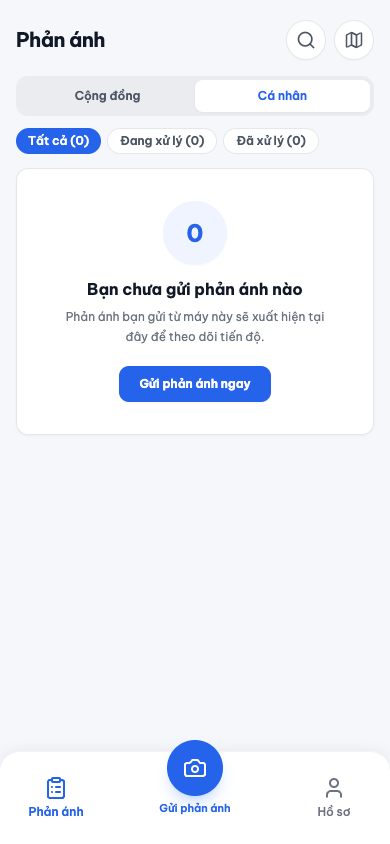
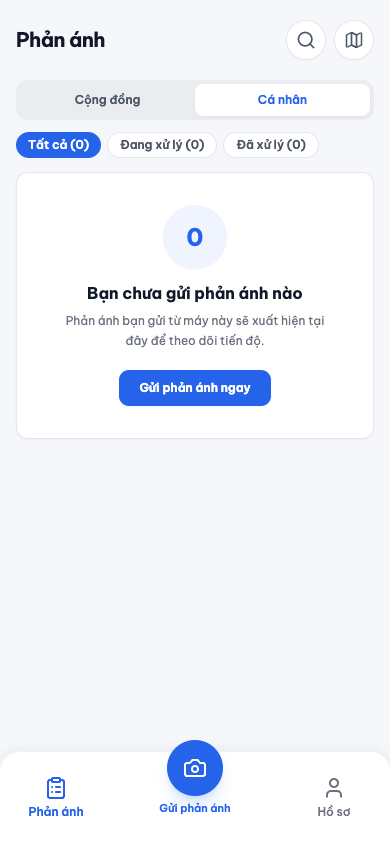
Redesign: cập nhật bộ screenshot responsive đầy đủ mobile, tablet và desktop

diff --git a/app/tests/e2e/capture-redesign.spec.ts b/app/tests/e2e/capture-redesign.spec.ts
@@ -13,7 +13,7 @@ test.describe('Redesign Screenshots', () => {
     // 01-phan-anh-cong-dong.png
     await page.goto('/');
     await page.waitForLoadState('networkidle');
-    await page.waitForTimeout(500);
+    await page.waitForTimeout(600);
     await page.screenshot({
       path: path.join(outDir, '01-phan-anh-cong-dong.png'),
       fullPage: false,
@@ -87,7 +87,20 @@ test.describe('Redesign Screenshots', () => {
     await page.screenshot({ path: path.join(outDir, '08-ho-so.png'), fullPage: false });
   });
 
-  test('Capture desktop screenshot 1440x900', async ({ page }) => {
+  test('Capture tablet screenshot 768x1024', async ({ page }) => {
+    await page.setViewportSize({ width: 768, height: 1024 });
+
+    // 13-tablet-phan-anh-768.png
+    await page.goto('/');
+    await page.waitForLoadState('networkidle');
+    await page.waitForTimeout(600);
+    await page.screenshot({
+      path: path.join(outDir, '13-tablet-phan-anh-768.png'),
+      fullPage: false,
+    });
+  });
+
+  test('Capture desktop screenshots 1440x900', async ({ page }) => {
     await page.setViewportSize({ width: 1440, height: 900 });
 
     // 09-can-bo.png
@@ -95,5 +108,43 @@ test.describe('Redesign Screenshots', () => {
     await page.waitForLoadState('networkidle');
     await page.waitForTimeout(500);
     await page.screenshot({ path: path.join(outDir, '09-can-bo.png'), fullPage: false });
+
+    // 10-desktop-phan-anh-1440.png
+    await page.goto('/');
+    await page.waitForLoadState('networkidle');
+    await page.waitForTimeout(600);
+    await page.screenshot({
+      path: path.join(outDir, '10-desktop-phan-anh-1440.png'),
+      fullPage: false,
+    });
+
+    // 11-desktop-chi-tiet-1440.png
+    await page.goto('/phan-anh/TB-0041');
+    await page.waitForLoadState('networkidle');
+    await page.waitForTimeout(600);
+    await page.screenshot({
+      path: path.join(outDir, '11-desktop-chi-tiet-1440.png'),
+      fullPage: false,
+    });
+
+    // 12-desktop-gui-1440.png
+    await page.evaluate(() => {
+      const state = JSON.parse(localStorage.getItem('tbkn:v1') || '{}');
+      state.draft = {
+        photos: ['/demo-photos/mat_duong/1.jpg'],
+        category: 'mat_duong',
+        lat: 10.9505,
+        lng: 106.8225,
+        address: 'Đường Cách Mạng Tháng Tám, Phường Trấn Biên',
+      };
+      localStorage.setItem('tbkn:v1', JSON.stringify(state));
+    });
+    await page.goto('/bao-su-co/xac-nhan');
+    await page.waitForLoadState('networkidle');
+    await page.waitForTimeout(600);
+    await page.screenshot({
+      path: path.join(outDir, '12-desktop-gui-1440.png'),
+      fullPage: false,
+    });
   });
 });
